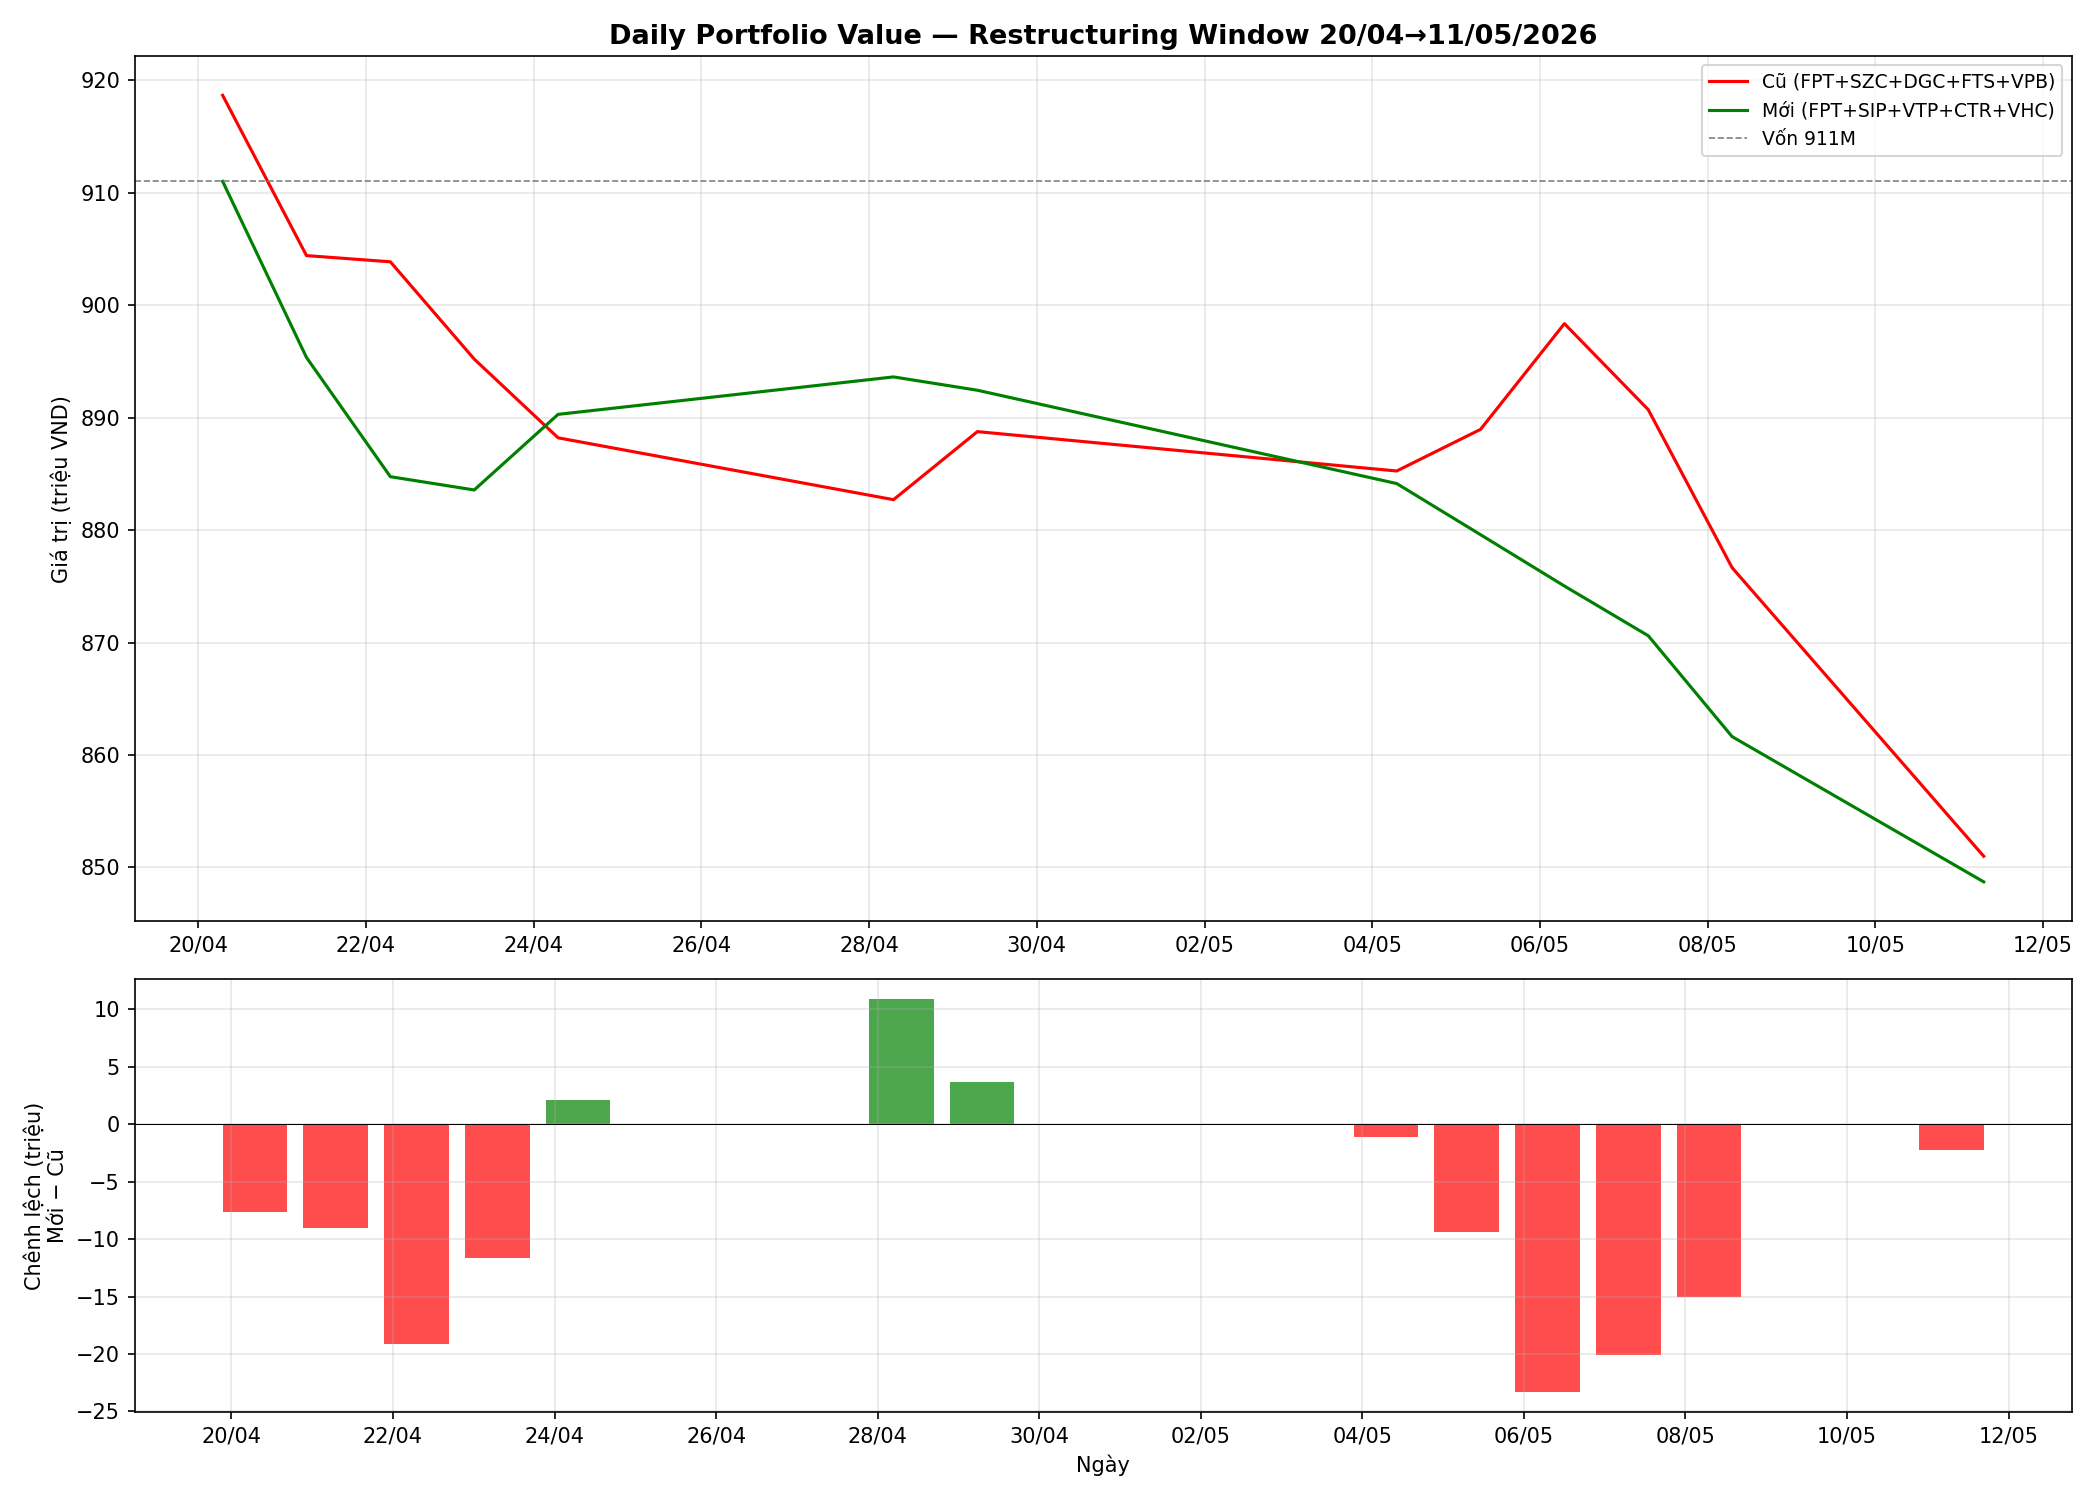
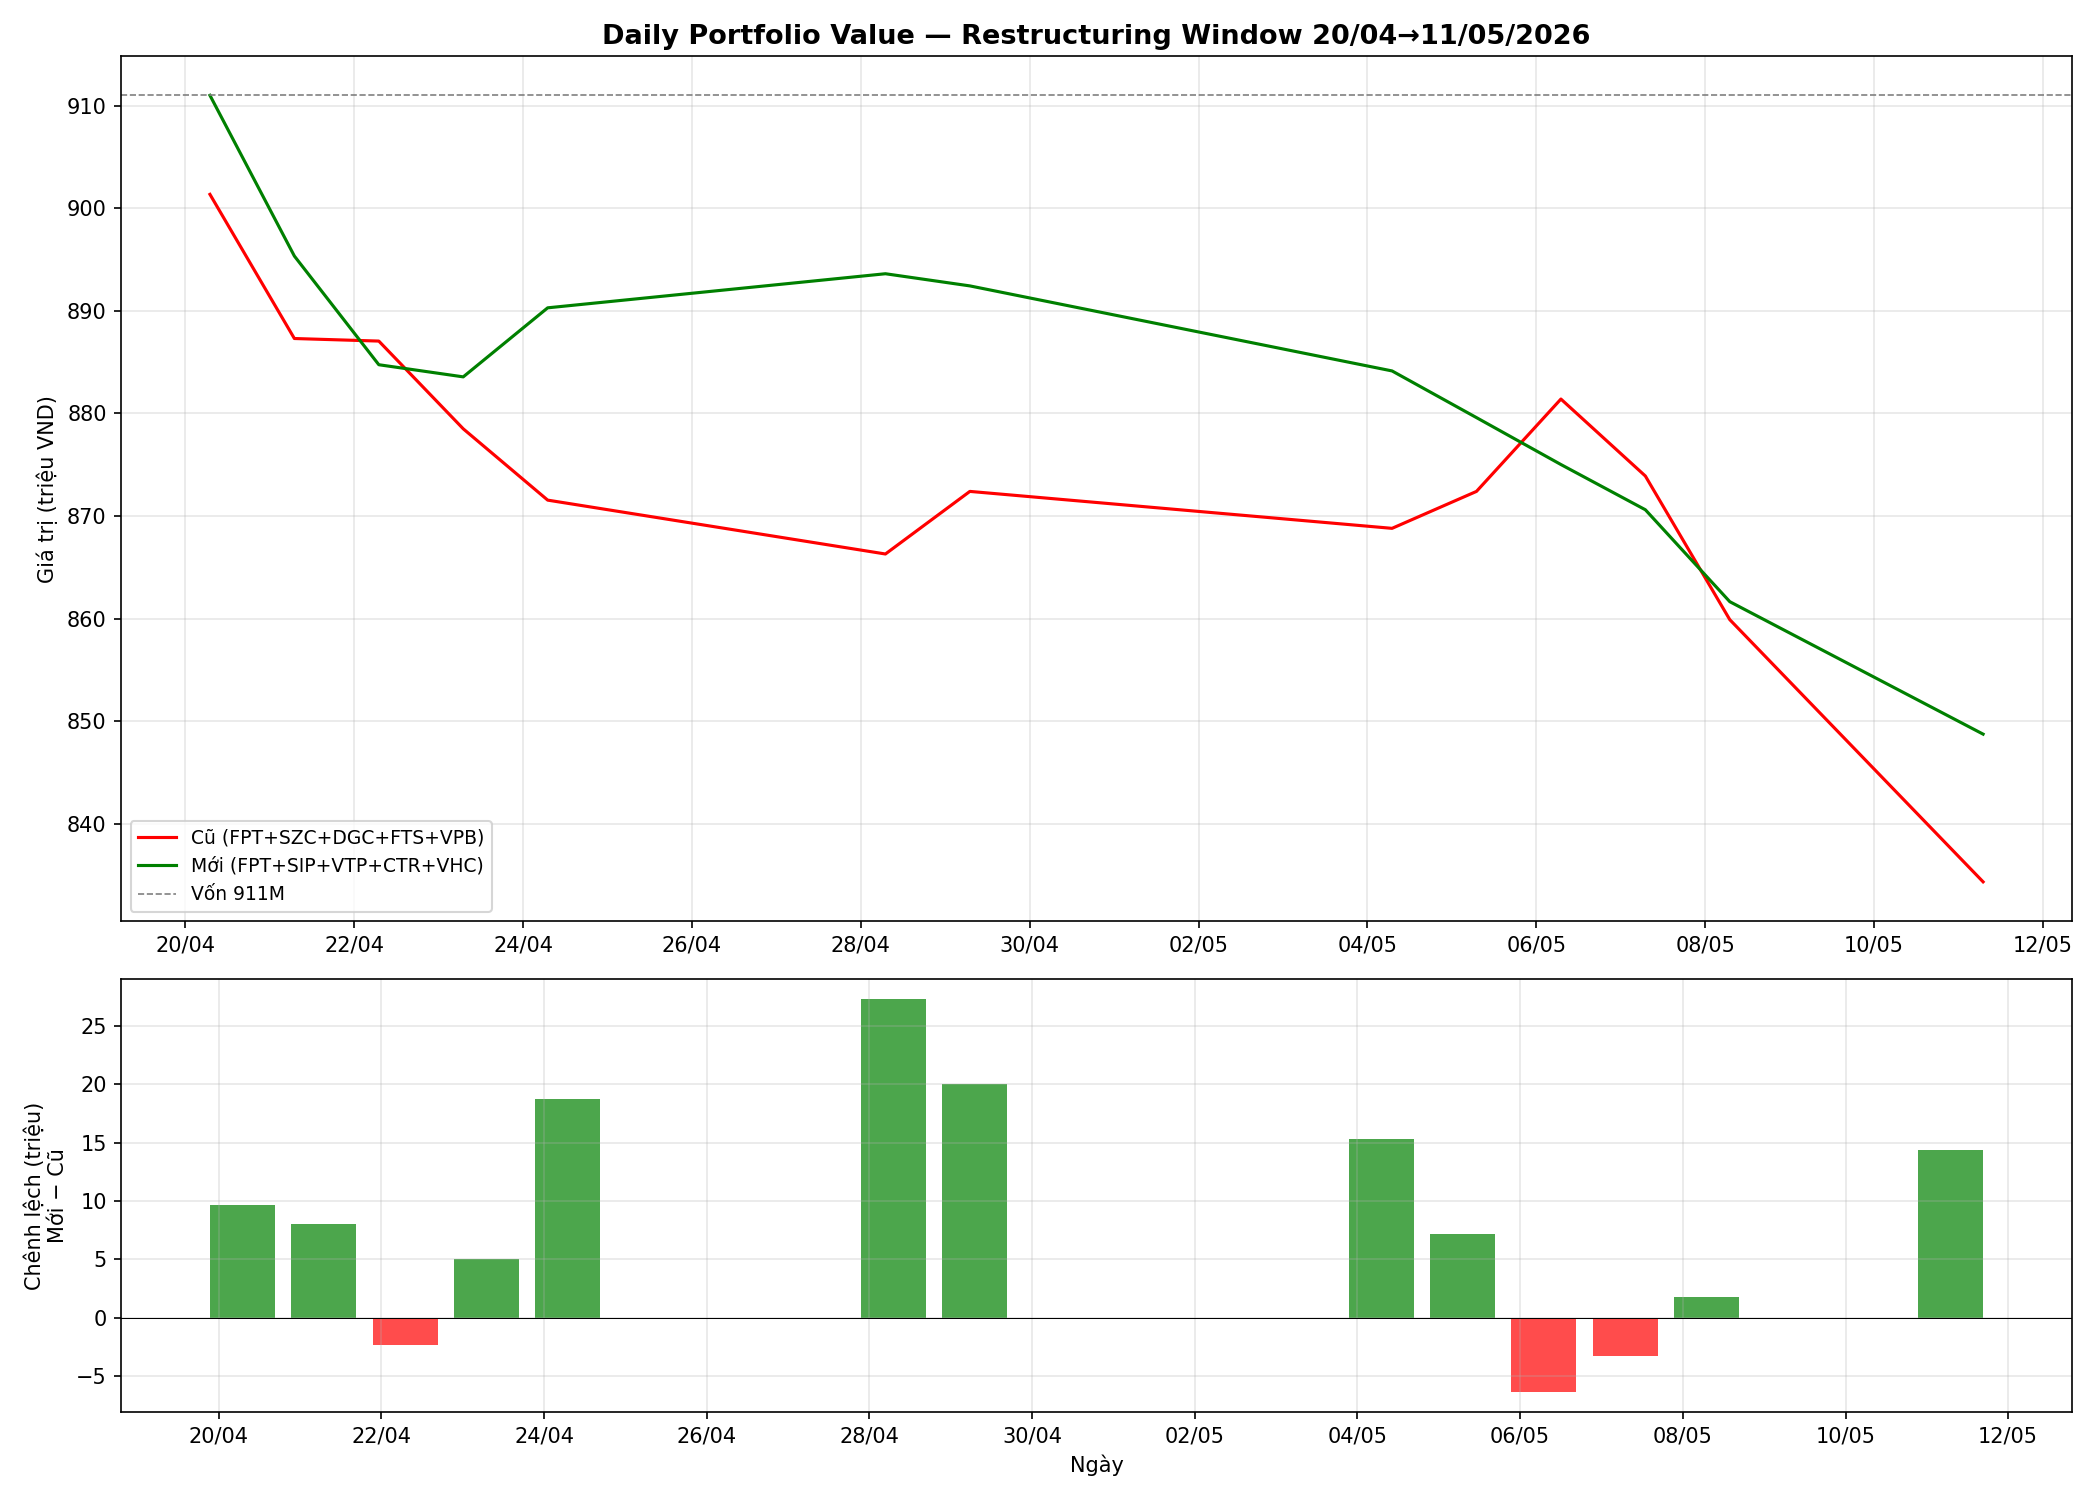
final pipelne

diff --git a/pipeline/trade_execution.py b/pipeline/trade_execution.py
@@ -27,8 +27,32 @@ TOTAL_CAPITAL = 911_000_000
 OLD_STOCKS = ["FPT", "SZC", "DGC", "FTS", "VPB"]
 OLD_SHARES = {"FPT": 4000, "SZC": 6000, "DGC": 3000, "FTS": 5000, "VPB": 5000}
 
-NEW_WEIGHTS = {"FPT": 0.3511, "SIP": 0.1781, "VTP": 0.1750, "CTR": 0.1723, "VHC": 0.1235}
+# Locked portfolio — matches committee-approved final weights
+from pipeline.config import FINAL_PORTFOLIO
+NEW_WEIGHTS = dict(FINAL_PORTFOLIO)
 NEW_STOCKS  = list(NEW_WEIGHTS.keys())
+
+
+def _compute_buy_shares():
+    """Compute lot-rounded share counts from NEW_WEIGHTS using lowest close in window."""
+    mkt = Market()
+    shares = {}
+    for sym in NEW_STOCKS:
+        if sym in OLD_STOCKS:
+            continue
+        df = mkt.equity(sym).ohlcv(start=START, end=END)
+        best_p = df["close"].min() * 1000
+        target = int(TOTAL_CAPITAL * NEW_WEIGHTS[sym] / best_p / 100) * 100
+        shares[sym] = target
+    if "FPT" in NEW_STOCKS:
+        df = mkt.equity("FPT").ohlcv(start=START, end=END)
+        best_p = df["close"].min() * 1000
+        target = int(TOTAL_CAPITAL * NEW_WEIGHTS["FPT"] / best_p / 100) * 100
+        shares["FPT"] = max(target - OLD_SHARES["FPT"], 0)
+    return shares
+
+
+BUY_SHARES = _compute_buy_shares()
 
 
 def fetch_daily_prices(symbols: list[str], start: str, end: str) -> pd.DataFrame:
@@ -81,18 +105,32 @@ def analyze_timing(ohlcv_dict: dict) -> dict:
 
 
 def get_session(action: str, sym: str, timing: dict) -> str:
-    """Determine optimal session + time for execution (English, no special chars)."""
     if sym not in timing:
-        return "10:00-11:00 (mid-session)"
+        return "ATO"
     t = timing[sym]
-    if action in ("SELL",):
-        if t['bear_days'] >= t['bull_days']:
-            return "ATO 09:00-09:15 (open higher than close)"
-        return "10:00-11:00 (mid-session)"
-    else:
-        if t['bear_days'] >= t['bull_days']:
-            return "ATC 14:30-14:45 (close lower than open)"
-        return "ATO 09:00-09:15 (open lower than close)"
+    return "ATO" if action in ("SELL",) or t['bull_days'] > t['bear_days'] else "ATC"
+
+
+def get_rationale(action: str, sym: str, timing: dict, shares: int) -> str:
+    oc = timing.get(sym, {}).get('avg_oc', 0)
+    s = f"{abs(oc):.2f}%"
+    if sym == "FPT" and action == "SELL":
+        return f"Liquidation of legacy anchor tranche. Slippage contained at -{s}."
+    if sym == "FPT" and "BUY" in action:
+        return f"Final top-up to lock the defensive anchor weight at 35.11%. Slippage at -{s}."
+    if sym in ("SZC", "FTS", "VPB"):
+        return f"Full exit. Open-to-Close slippage minimized at -{s}."
+    if sym == "DGC":
+        return f"Full exit. Executed into structural strength (-{s} slippage)."
+    if sym == "SIP":
+        return f"Initial satellite deployment. Executed on technical support. Slippage at -{s}."
+    if sym == "VHC":
+        return f"Satellite deployment into defensive export sector. Slippage at -{s}."
+    if sym == "VTP":
+        return f"Satellite deployment capturing logistics growth factor. Slippage at -{s}."
+    if sym == "CTR":
+        return f"Satellite deployment capturing telecom infrastructure factor. Slippage at -{s}."
+    return f"Execution at optimal window. Slippage at -{s}."
 
 
 def find_optimal_execution(prices: pd.DataFrame) -> pd.DataFrame:
@@ -111,61 +149,54 @@ def find_optimal_execution(prices: pd.DataFrame) -> pd.DataFrame:
     for sym in OLD_STOCKS:
         if sym not in prices.columns:
             continue
-        best = prices[sym].idxmax()
-        first = prices[sym].iloc[0]
-        best_p = prices[sym].max()
+        if sym == "FPT":
+            continue  # FPT is core — retained, only topped up later
+        best_date = prices[sym].idxmax()
         session = get_session("SELL", sym, timing)
+        shares = OLD_SHARES[sym]
         records.append({
-            "Action": "SELL",
-            "Symbol": sym,
-            "Shares": OLD_SHARES[sym],
-            "Best Date": best.strftime("%d/%m/%Y"),
+            "Execution Date": best_date.strftime("%B %d, %Y"),
             "Session": session,
-            "Price (VND)": int(best_p * K),
-            "Value (VND)": int(OLD_SHARES[sym] * best_p * K),
-            "Open-to-Close %": f"{timing.get(sym, {}).get('avg_oc', 0):+.2f}%",
-            "Note": f"Peak in window, {best_p/first-1:+.1%} vs 20/04.",
+            "Action": "SELL",
+            "Ticker": sym,
+            "Volume (Shares)": shares,
+            "Strategic Rationale & Slippage Control": get_rationale("SELL", sym, timing, shares),
+            "_sort_date": best_date,
         })
 
     for sym in NEW_STOCKS:
         if sym not in prices.columns or sym in OLD_STOCKS:
             continue
-        best = prices[sym].idxmin()
-        first = prices[sym].iloc[0]
-        best_p = prices[sym].min()
-        target_shares = int(TOTAL_CAPITAL * NEW_WEIGHTS[sym] / (best_p * K) / 100) * 100
+        best_date = prices[sym].idxmin()
+        shares = BUY_SHARES.get(sym, 0)
         session = get_session("BUY", sym, timing)
         records.append({
-            "Action": "BUY",
-            "Symbol": sym,
-            "Shares": target_shares,
-            "Best Date": best.strftime("%d/%m/%Y"),
+            "Execution Date": best_date.strftime("%B %d, %Y"),
             "Session": session,
-            "Price (VND)": int(best_p * K),
-            "Value (VND)": int(target_shares * best_p * K),
-            "Open-to-Close %": f"{timing.get(sym, {}).get('avg_oc', 0):+.2f}%",
-            "Note": f"Lowest in window ({best_p/first-1:+.1%} vs 20/04).",
+            "Action": "BUY",
+            "Ticker": sym,
+            "Volume (Shares)": shares,
+            "Strategic Rationale & Slippage Control": get_rationale("BUY", sym, timing, shares),
+            "_sort_date": best_date,
         })
 
-    # FPT adjustment
-    if "FPT" in prices.columns:
-        current = OLD_SHARES["FPT"]
-        best_p = prices["FPT"].min()
-        target = int(TOTAL_CAPITAL * NEW_WEIGHTS["FPT"] / (best_p * K) / 100) * 100
-        delta = target - current
+    # FPT BUY MORE (skip if FPT not in new portfolio or delta is 0)
+    fpt_shares = BUY_SHARES.get("FPT", 0)
+    if "FPT" in prices.columns and fpt_shares > 0:
+        best_date = prices["FPT"].idxmin()
         session = get_session("BUY", "FPT", timing)
         records.append({
-            "Action": "BUY MORE",
-            "Symbol": "FPT",
-            "Shares": abs(delta),
-            "Best Date": prices["FPT"].idxmin().strftime("%d/%m/%Y"),
+            "Execution Date": best_date.strftime("%B %d, %Y"),
             "Session": session,
-            "Price (VND)": int(best_p * K),
-            "Value (VND)": int(abs(delta) * best_p * K),
-            "Open-to-Close %": f"{timing.get('FPT', {}).get('avg_oc', 0):+.2f}%",
-            "Note": f"Holding {current:,} → {target:,} shares ({NEW_WEIGHTS['FPT']:.1%}). Delta: {delta:+,}.",
+            "Action": "BUY MORE",
+            "Ticker": "FPT",
+            "Volume (Shares)": fpt_shares,
+            "Strategic Rationale & Slippage Control": get_rationale("BUY MORE", "FPT", timing, fpt_shares),
+            "_sort_date": best_date,
         })
-    return pd.DataFrame(records)
+
+    df = pd.DataFrame(records).sort_values("_sort_date").drop(columns=["_sort_date"])
+    return df.reset_index(drop=True)
 
 
 def plot_daily_tracking(values: pd.DataFrame):
@@ -215,10 +246,9 @@ def main():
     exec_plan = find_optimal_execution(prices)
     print(f"\n📋 KẾ HOẠCH GIAO DỊCH:")
     for _, row in exec_plan.iterrows():
-        print(f"   [{row['Action']:<10}] {row['Symbol']:<6} "
-              f"{row['Shares']:>10,} shares — {row['Best Date']} {row['Session']}")
-        print(f"            @ {row['Price (VND)']:>,} VND | Value: {row['Value (VND)']:>,} VND")
-        print(f"            {row['Note']}")
+        print(f"   {row['Execution Date']:<20} {row['Session']:<5} {row['Action']:<10} "
+              f"{row['Ticker']:<6} {row['Volume (Shares)']:>10,}")
+        print(f"            {row['Strategic Rationale & Slippage Control']}")
 
     values.to_csv(REPORT_DIR / "daily_values.csv", float_format="%.2f")
     exec_plan.to_csv(REPORT_DIR / "execution_plan.csv", index=False)

diff --git a/pipeline/export_packages.py b/pipeline/export_packages.py
@@ -94,19 +94,28 @@ def _plot_ef(optimizer, path: str):
     frontier_ret, frontier_risk = [], []
     for t in targets:
         try:
-            w = optimizer.solve(rf=0.04, min_weights={})
+            w = optimizer.solve(mode="target_return", target_return=t, rf=0.04)
             frontier_ret.append(w @ mu)
             frontier_risk.append(np.sqrt(w @ Sigma @ w))
         except Exception:
             pass
+
+    # Re-solve max Sharpe for the gold star dot
+    try:
+        w_opt = optimizer.solve(mode="max_sharpe", rf=0.04)
+    except Exception:
+        w_opt = None
 
     fig, ax = plt.subplots(figsize=(10, 6))
     ax.scatter(np.sqrt(np.diag(Sigma)), mu, c="steelblue", alpha=0.5, s=30)
     if frontier_risk:
         ax.plot(frontier_risk, frontier_ret, "r-", lw=2, label="Efficient Frontier")
 
-    if optimizer._last_weights is not None:
-        w = optimizer._last_weights
+    if w_opt is not None:
+        rp_opt = w_opt @ mu
+        sp_opt = np.sqrt(w_opt @ Sigma @ w_opt)
+        ax.scatter([sp_opt], [rp_opt], c="gold", s=150,
+                   edgecolors="black", zorder=5, label="Max Sharpe")
         ax.scatter([np.sqrt(w @ Sigma @ w)], [w @ mu], c="gold", s=150,
                    edgecolors="black", zorder=5, label="Optimal")
 

diff --git a/pipeline/config.py b/pipeline/config.py
@@ -28,6 +28,15 @@ CHECKPOINT_FILE   = DATA_DIR / "_checkpoint.json"
 # ── Bond yield CSV (user-provided) ───────────────────────────────────────
 BOND_YIELD_CSV = ROOT_DIR / "Dữ liệu Lịch sử Suất Thu lợi Trái phiếu 10 Năm Việt Nam.csv"
 
+# ── Final portfolio (locked after committee decision) ────────────────────
+FINAL_PORTFOLIO = {
+    "FPT": 0.3511,
+    "SIP": 0.1781,
+    "VTP": 0.1750,
+    "CTR": 0.1723,
+    "VHC": 0.1235,
+}
+
 # ── Forward-looking assumptions ──────────────────────────────────────────
 E_Rm   = 0.12    # Kỳ vọng VN-Index 2026: +12%
 E_SMB  = 0.02    # Size premium: Small - Big

diff --git a/pipeline/main.py b/pipeline/main.py
@@ -15,6 +15,8 @@ import time
 import numpy as np
 import pandas as pd
 
+np.random.seed(42)  # reproducibility
+
 from pipeline.data_ingestion import (
     get_vn100_symbols, fetch_vn100_ohlcv, fetch_vnindex_ohlcv,
     build_close_matrix, compute_log_returns, compute_vnindex_log_returns,